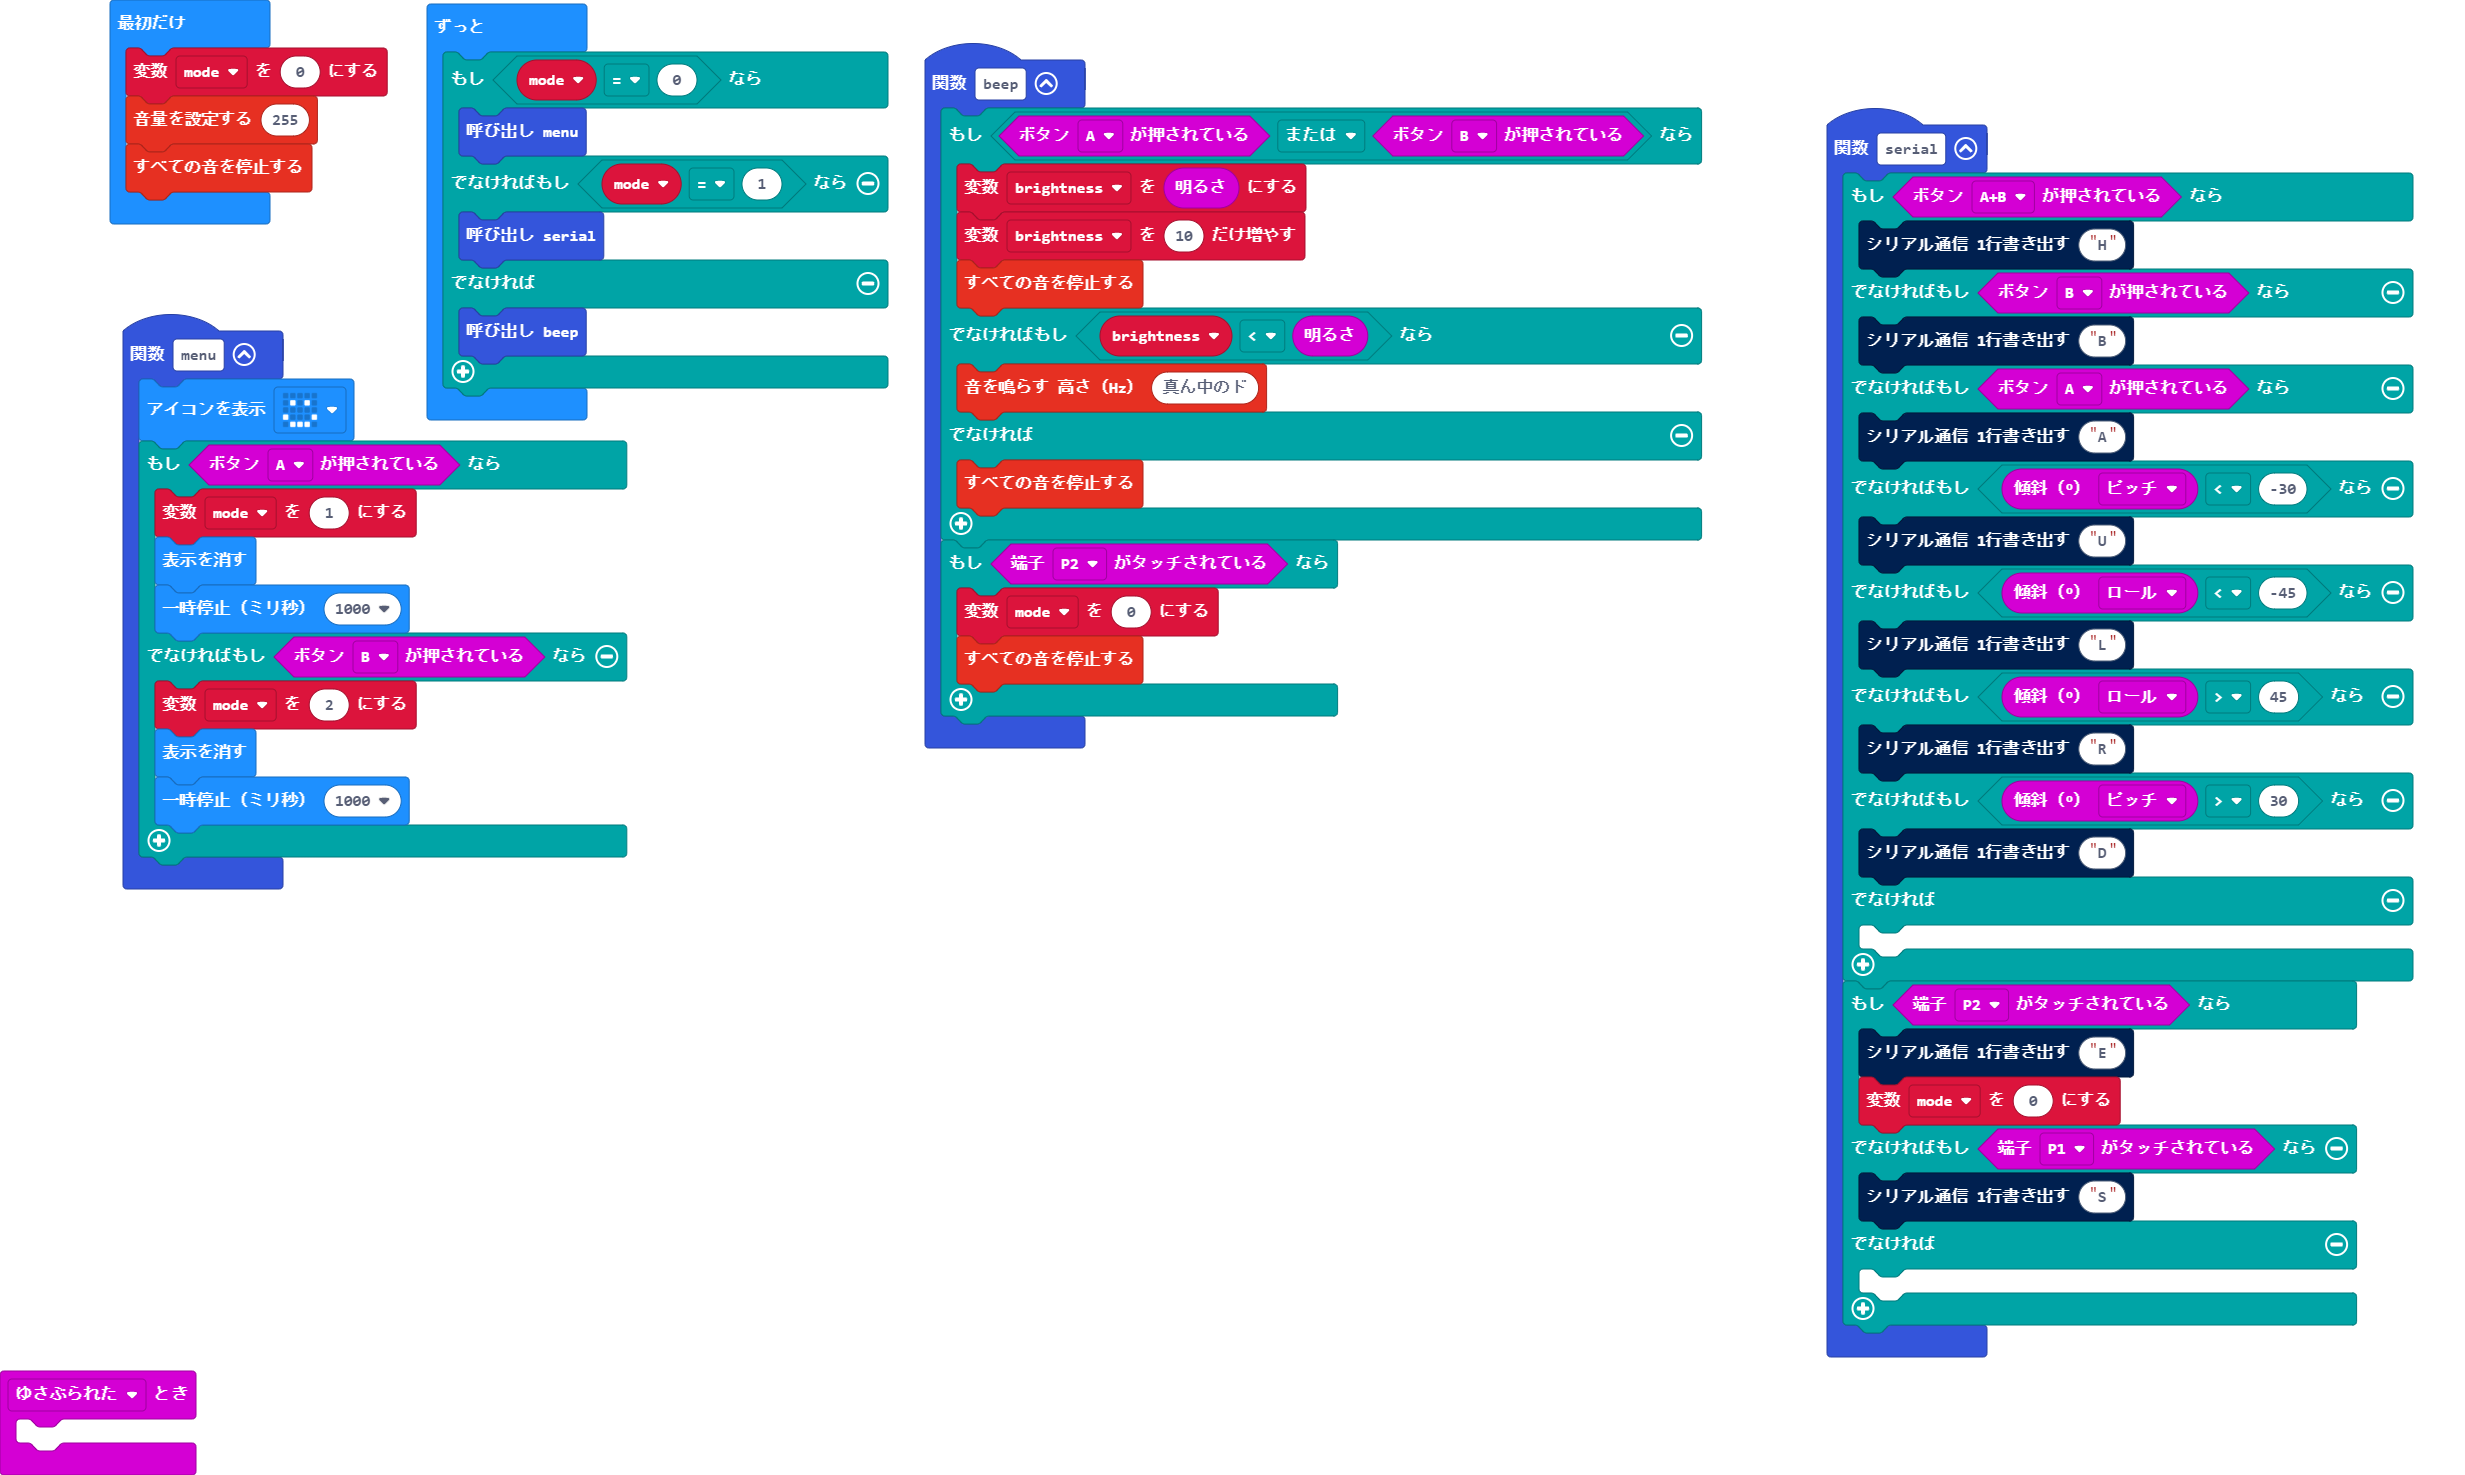
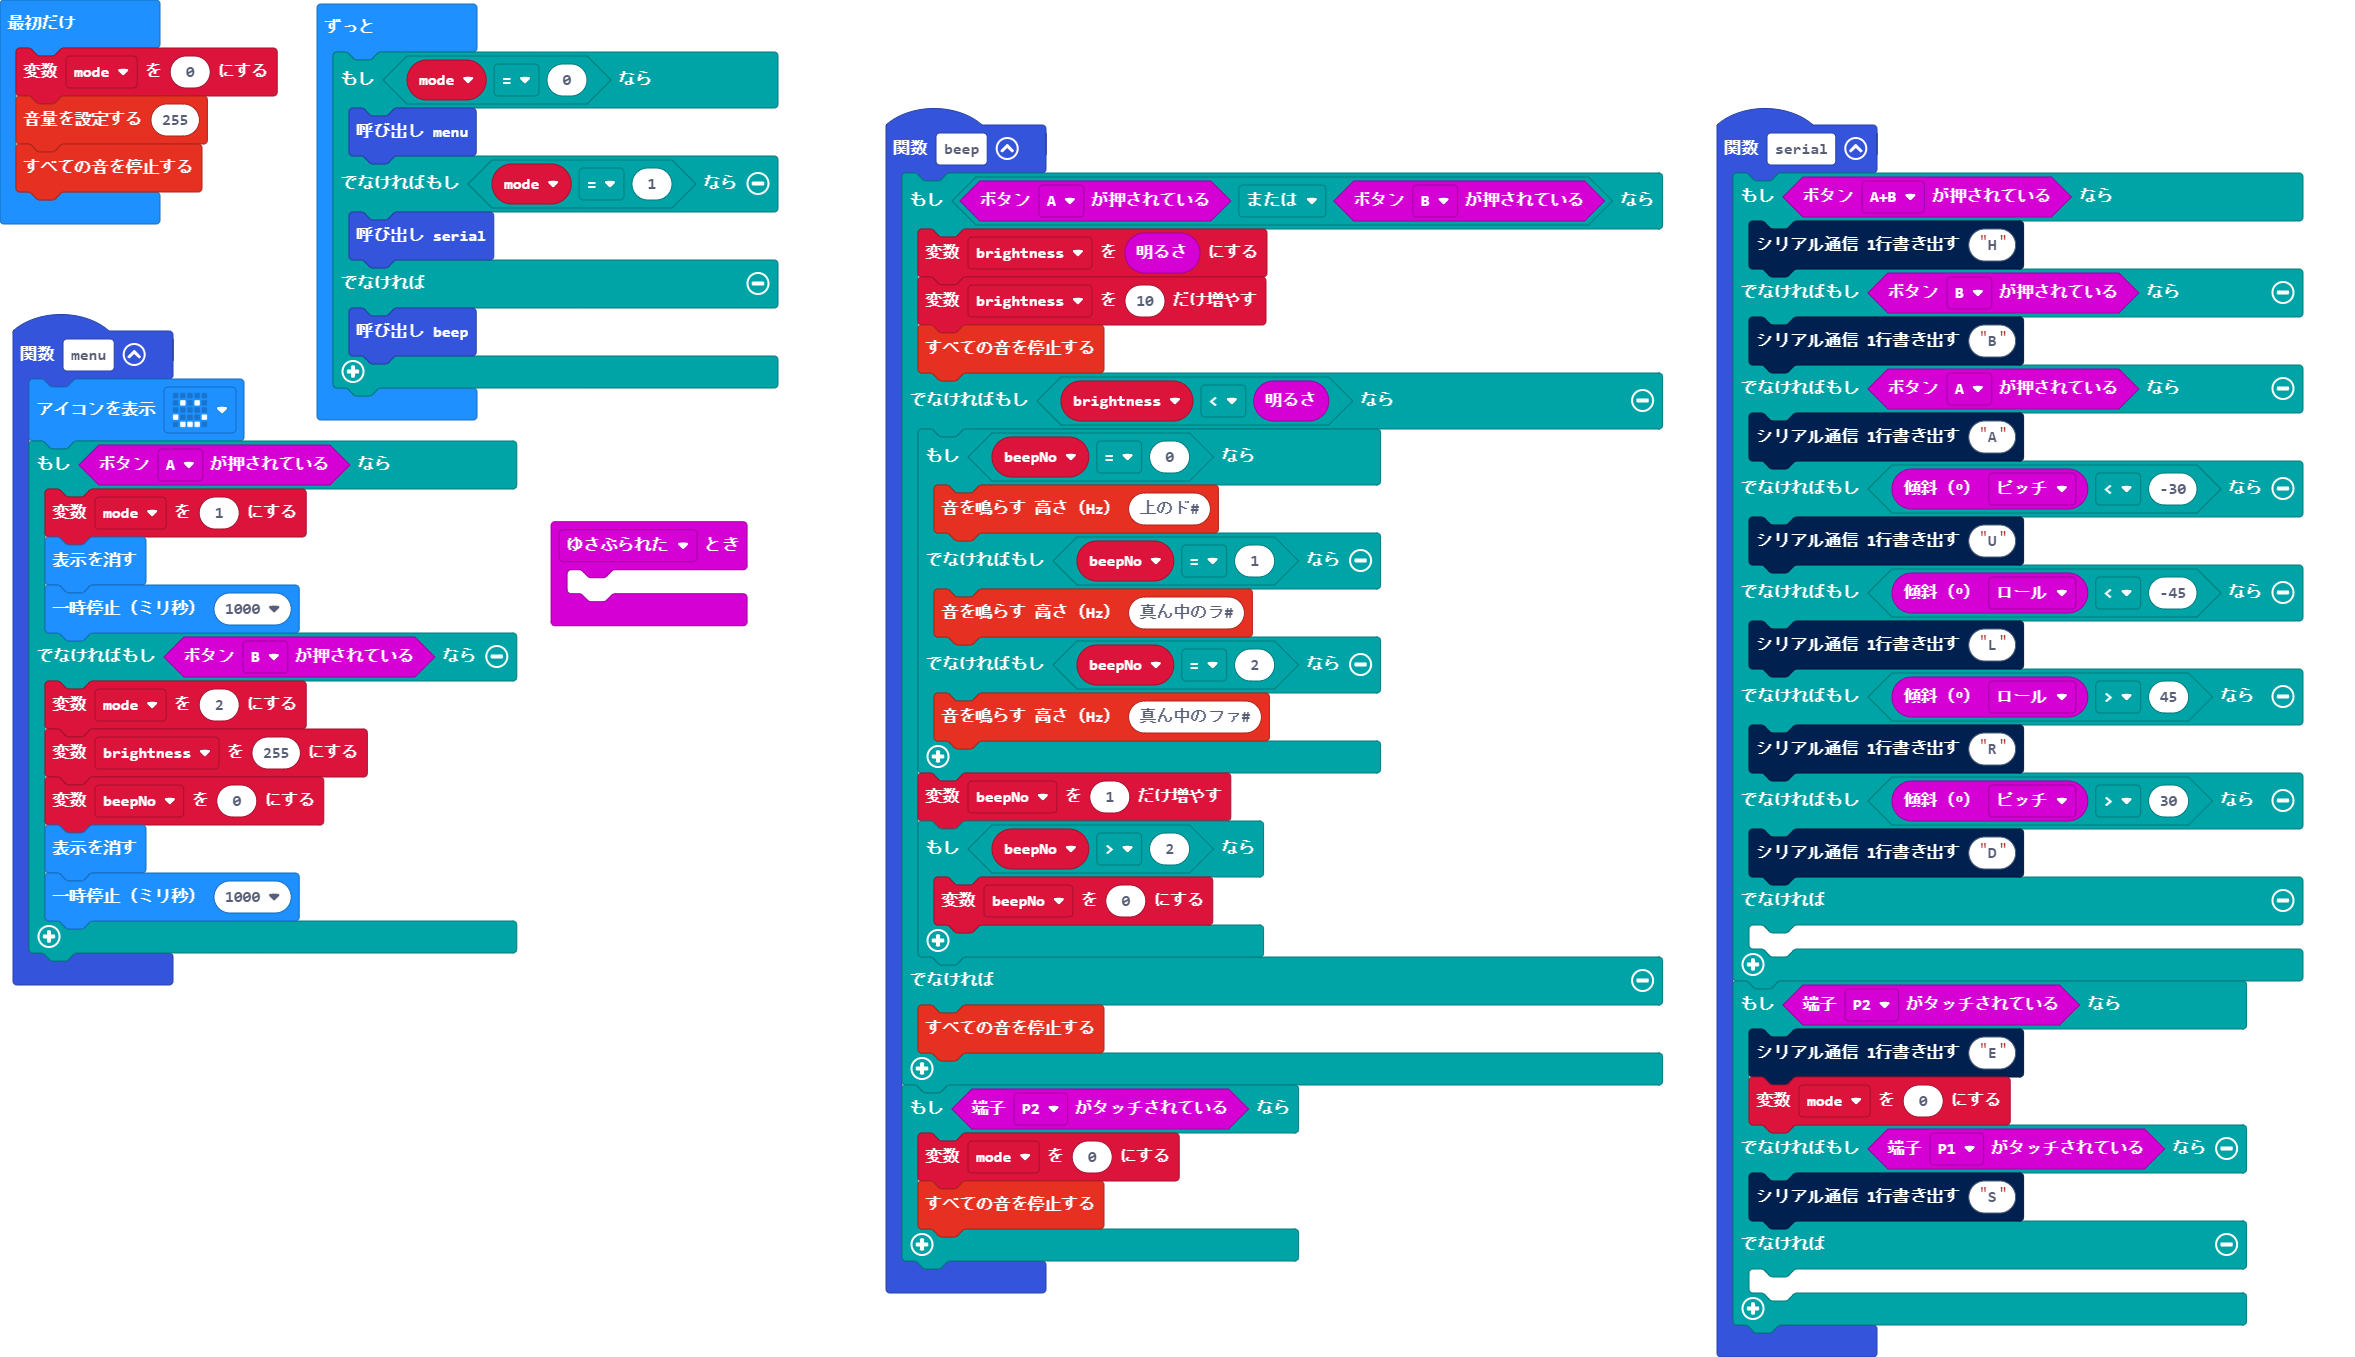
更新 main.blocks, main.ts

diff --git a/main.ts b/main.ts
@@ -6,6 +6,8 @@ function menu () {
         basic.pause(1000)
     } else if (input.buttonIsPressed(Button.B)) {
         mode = 2
+        brightness = 255
+        beepNo = 0
         basic.clearScreen()
         basic.pause(1000)
     }
@@ -46,7 +48,17 @@ function beep () {
         brightness += 10
         music.stopAllSounds()
     } else if (brightness < input.lightLevel()) {
-        music.ringTone(262)
+        if (beepNo == 0) {
+            music.ringTone(554)
+        } else if (beepNo == 1) {
+            music.ringTone(466)
+        } else if (beepNo == 2) {
+            music.ringTone(370)
+        }
+        beepNo += 1
+        if (beepNo > 2) {
+            beepNo = 0
+        }
     } else {
         music.stopAllSounds()
     }
@@ -55,6 +67,7 @@ function beep () {
         music.stopAllSounds()
     }
 }
+let beepNo = 0
 let brightness = 0
 let mode = 0
 mode = 0
